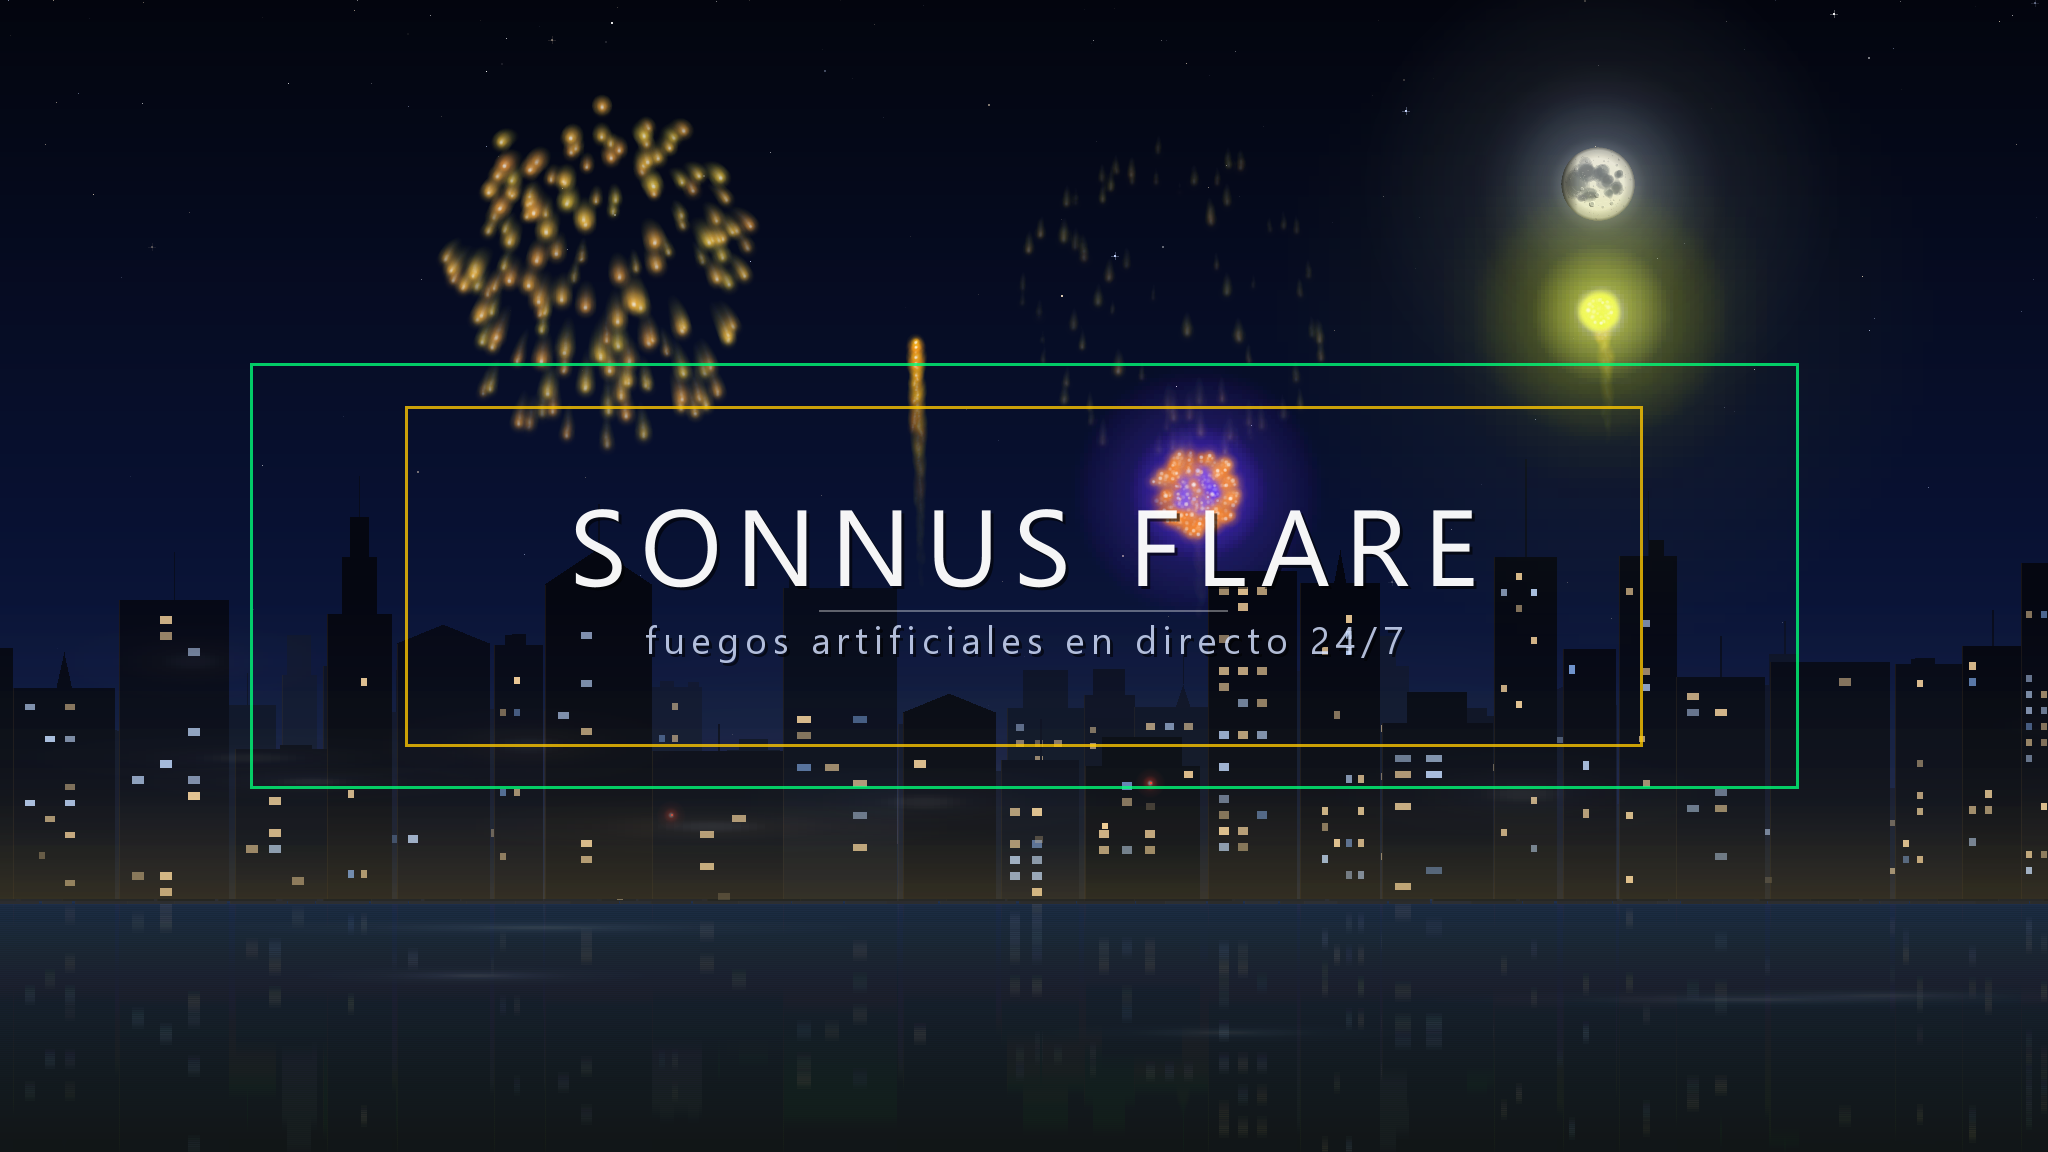
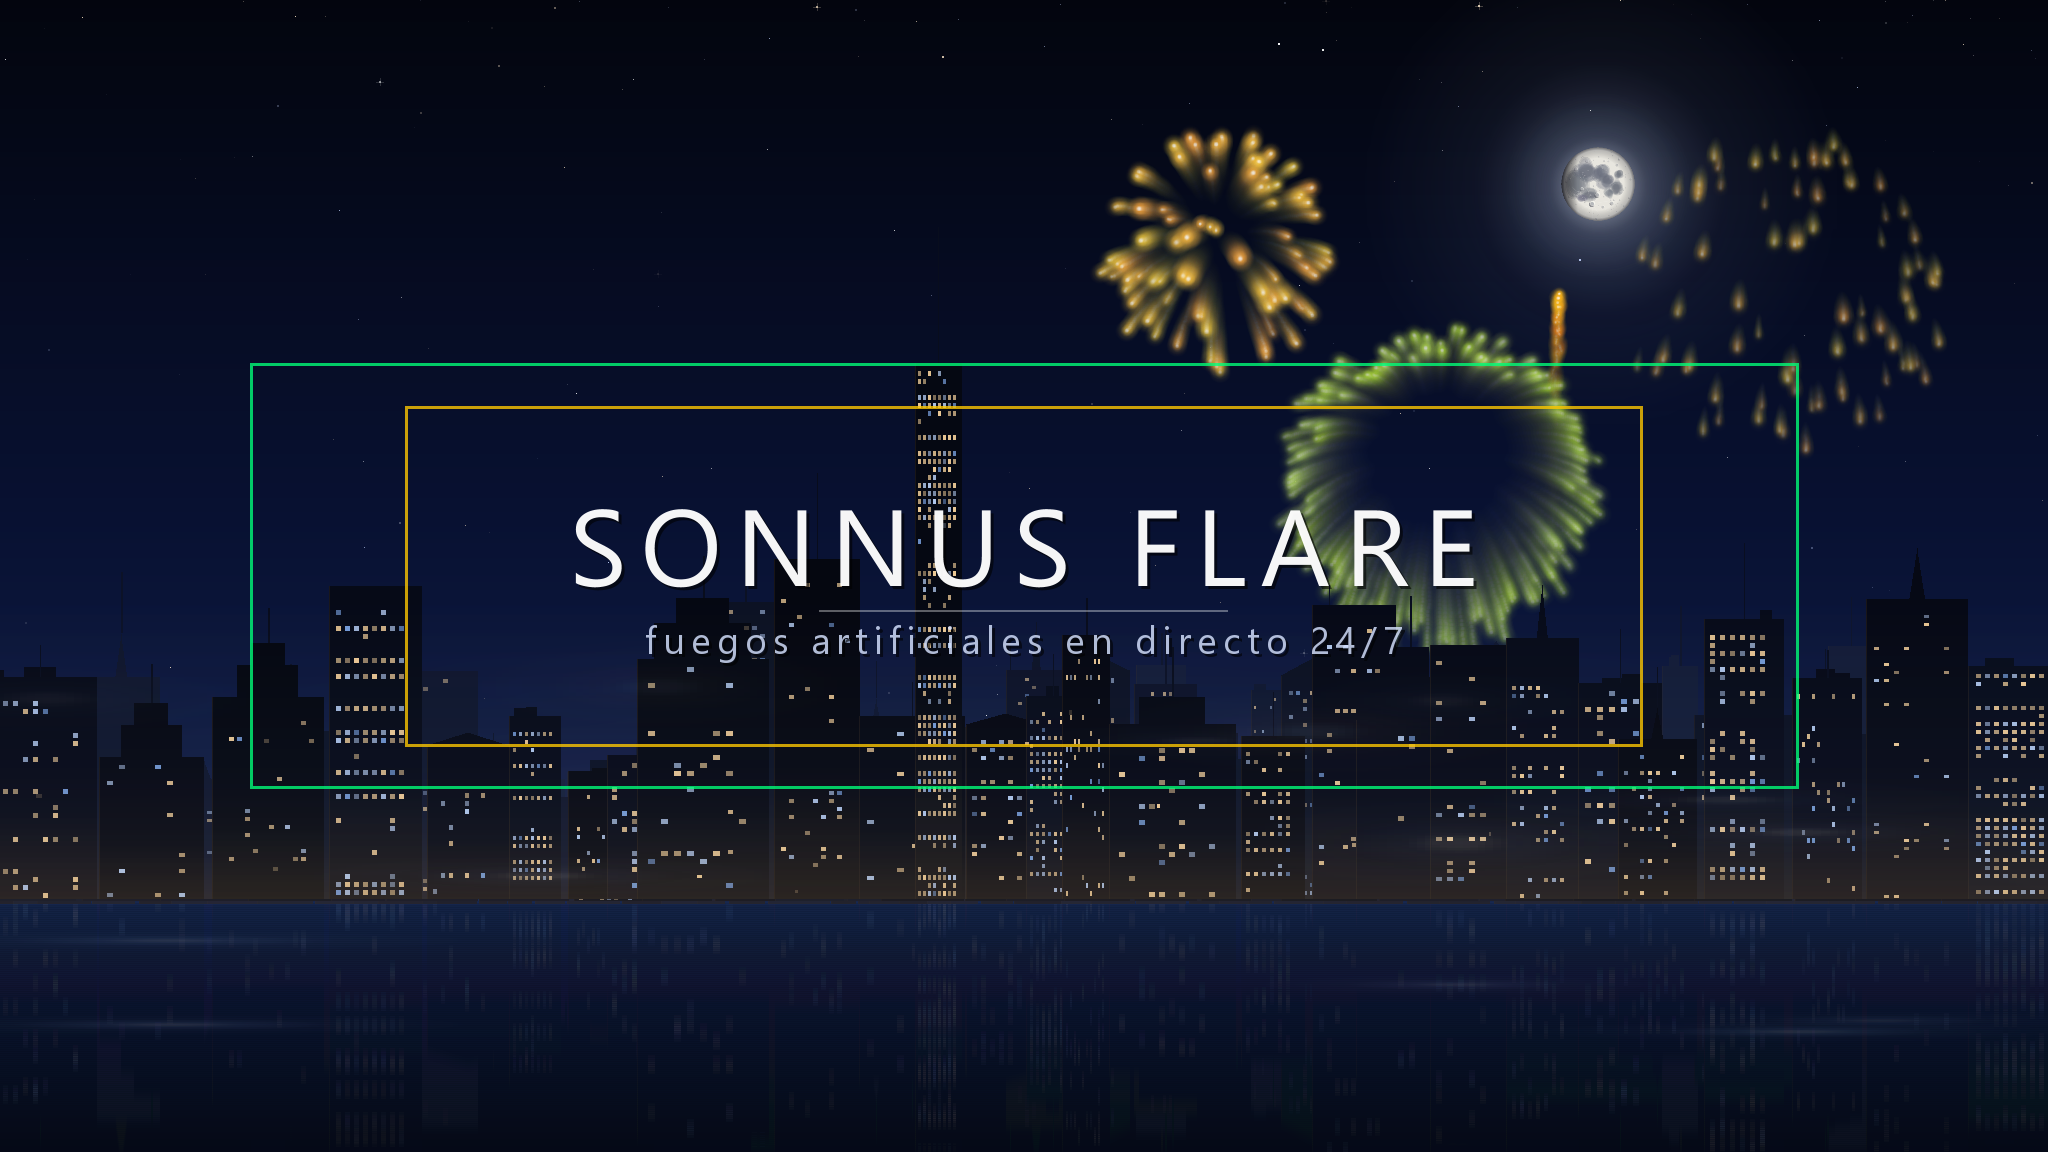
Ciudad a escala de rascacielos: ventanas densas, hitos y solape
El skyline seguia sin leerse como una ciudad, y el motivo era de escala, no
de detalle. Un edificio de doscientos pixeles salia con trece plantas y tres
columnas de ventanas: eso no es una torre, es un bloque de pisos con ojos
grandes.

En una foto nocturna el edificio es una masa casi negra y todo el dibujo lo
hacen las ventanas. Pocas y grandes se leen como agujeros; muchas y pequenas
en reticula apretada se leen como fachada.

- Altura de planta a la mitad: veinticinco plantas donde habia trece.
- Ventanas del 4 al 7,5 por ciento del ancho en vez del 8 al 14, con el paso
  mas corto: ocho a doce columnas donde habia tres.
- Una de cada doce es un hito, de una vez y media a dos veces la altura de su
  capa. Un perfil sin torres que sobresalgan se lee como tapia almenada.
- Los edificios se solapan el treinta por ciento de las veces: en una ciudad
  se tapan entre si, no van en fila india.

Coste: el horneado sube de 105 a 122 ms, solo al redimensionar. Por fotograma
se mantiene en 16-17 ms, porque el skyline ya estaba horneado y lo unico que
cambia es cuanto se dibuja una vez.

diff --git a/src/j4f/Escenario.java b/src/j4f/Escenario.java
@@ -545,8 +545,11 @@ public class Escenario {
         float calima = (float) (0.34 * (1 - cercania));
         int baseY = yHorizonte + (int) Math.round(alto * 0.004 * (1 - cercania));
 
-        int pisoAlto = Math.max(3, (int) Math.round(alto * 0.014));
-        int minVentana = Math.max(1, (int) Math.round(alto * 0.005));
+        // Altura de planta. Con 0.014 un edificio de doscientos pixeles salia
+        // con trece plantas: eso no es una torre, es un bloque de pisos. A la
+        // mitad se leen veinticinco, que es lo que el ojo espera de una ciudad.
+        int pisoAlto = Math.max(2, (int) Math.round(alto * 0.0072));
+        int minVentana = 1;
 
         int x = -(int) Math.round(Azar.entre(0.0, anchoMax));
         while (x < ancho) {
@@ -555,6 +558,11 @@ public class Escenario {
                 w = 5;
             }
             int h = (int) Math.round(Azar.entre(altMin, altMax));
+            // Una de cada doce es un hito. Un perfil sin torres que sobresalgan
+            // se lee como una tapia almenada, no como una ciudad.
+            if (Azar.probabilidad(0.085)) {
+                h = (int) Math.round(h * Azar.entre(1.45, 2.10));
+            }
             if (h < 8) {
                 h = 8;
             }
@@ -593,7 +601,11 @@ public class Escenario {
                 pintarVentanas(g, x, cima, w, h, pisoAlto, minVentana,
                         vivas, cercania, calima);
             }
-            x += w + (int) Math.round(Azar.entre(-2.0, 4.0 + 4.0 * cercania));
+            // A veces el siguiente se mete por delante: en una ciudad los
+            // edificios se tapan entre si, no van en fila india.
+            x += Azar.probabilidad(0.30)
+                    ? (int) Math.round(w * Azar.entre(0.45, 0.80))
+                    : w + (int) Math.round(Azar.entre(-2.0, 4.0 + 4.0 * cercania));
         }
     }
 
@@ -687,10 +699,13 @@ public class Escenario {
             int pisoAlto, int minVentana, List<int[]> vivas,
             double cercania, float calima) {
         g.setPaint(null);
-        int margen = Math.max(2, w / 8);
-        int vw = Math.max(minVentana, (int) Math.round(w * Azar.entre(0.08, 0.14)));
-        int vh = Math.max(minVentana, (int) Math.round(pisoAlto * Azar.entre(0.35, 0.55)));
-        int paso = vw + Math.max(2, (int) (vw * Azar.entre(0.9, 1.6)));
+        int margen = Math.max(1, w / 12);
+        // Ventanas pequenas y muchas. En una foto nocturna el edificio es una
+        // masa negra y todo el dibujo lo hacen las ventanas; pocas y grandes
+        // se leen como agujeros, no como una fachada.
+        int vw = Math.max(minVentana, (int) Math.round(w * Azar.entre(0.040, 0.075)));
+        int vh = Math.max(minVentana, (int) Math.round(pisoAlto * Azar.entre(0.40, 0.60)));
+        int paso = vw + Math.max(1, (int) (vw * Azar.entre(0.75, 1.20)));
         int columnas = (w - margen * 2) / paso;
         if (columnas < 1) {
             return;
